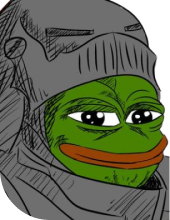
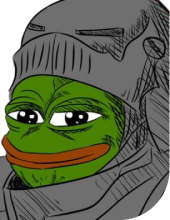
modified

diff --git a/assets/css/style.css b/assets/css/style.css
@@ -28743,34 +28743,6 @@ CSS table of content
     margin-top: 60px;
   }
 }
-.quick-start-title {
-  background: rgba(255, 255, 255, 0.08);
-  border-radius: 20px;
-  display: flex;
-  align-items: flex-start;
-  justify-content: flex-start;
-  padding: 20px;
-  margin-bottom: 21px;
-}
-.quick-start-title span {
-  margin-right: 27px;
-}
-.quick-start-title h6 {
-  margin-bottom: 0px;
-  font-size: 20px;
-  line-height: 150%;
-  color: #FFFFFF;
-  margin-top: 5px;
-}
-
-.quick-start-steps {
-  margin-bottom: 42px;
-}
-.quick-start-steps p {
-  max-width: 367px;
-  margin: auto;
-}
-
 .community-powered-card {
   background: #C8F169;
   border-radius: 50px;
@@ -28786,7 +28758,7 @@ CSS table of content
 }
 .community-powered-card .pepe2 {
   position: absolute;
-  left: 0px;
+  right: 0px;
   bottom: 0px;
   z-index: 0;
 }
@@ -28850,6 +28822,34 @@ CSS table of content
     padding: 60px 20px;
   }
 }
+.quick-start-title {
+  background: rgba(255, 255, 255, 0.08);
+  border-radius: 20px;
+  display: flex;
+  align-items: flex-start;
+  justify-content: flex-start;
+  padding: 20px;
+  margin-bottom: 21px;
+}
+.quick-start-title span {
+  margin-right: 27px;
+}
+.quick-start-title h6 {
+  margin-bottom: 0px;
+  font-size: 20px;
+  line-height: 150%;
+  color: #FFFFFF;
+  margin-top: 5px;
+}
+
+.quick-start-steps {
+  margin-bottom: 42px;
+}
+.quick-start-steps p {
+  max-width: 367px;
+  margin: auto;
+}
+
 .token-info-inner {
   position: relative;
   z-index: 2;
@@ -29057,6 +29057,47 @@ CSS table of content
 @media only screen and (max-width: 768px) {
   .roadmap-content {
     padding-top: 30px;
+  }
+}
+.our-partners-content {
+  padding-top: 50px;
+}
+.our-partners-content ul {
+  list-style: none;
+  display: flex;
+  align-items: center;
+  justify-content: center;
+  padding: 0px;
+  margin: 0px;
+  flex-wrap: wrap;
+}
+.our-partners-content ul li {
+  width: 20%;
+  display: flex;
+  align-items: center;
+  justify-content: center;
+  overflow: hidden;
+  margin-bottom: 50px;
+}
+
+@media only screen and (max-width: 1200px) {
+  .our-partners-content ul li {
+    padding: 0px 10px;
+  }
+}
+@media only screen and (max-width: 768px) {
+  .our-partners-content ul li {
+    width: 25%;
+  }
+}
+@media only screen and (max-width: 575px) {
+  .our-partners-content ul li {
+    width: 33.33%;
+  }
+}
+@media only screen and (max-width: 425px) {
+  .our-partners-content ul li {
+    width: 50%;
   }
 }
 .faq-content {

diff --git a/index.html b/index.html
@@ -385,6 +385,28 @@
     </section>
     <!-- roadmap-section End -->
 
+    <!-- our-partners-section start -->
+    <section class="our-partners-section uig-pb-115 uig-lg-pb-70 uig-md-pb-50" id="partners">
+        <div class="container">
+            <div class="section-title text-center wow fadeInUp" data-wow-duration="0.5s" data-wow-delay="0.5s">
+                <h2>Our Partners</h2>
+            </div>
+            <div class="our-partners-content wow fadeInUp" data-wow-duration="0.6s" data-wow-delay="0.6s">
+                <ul>
+                    <li><img src="./assets/images/partners/1.png" alt="partners-logo"></li>
+                    <li><img src="./assets/images/partners/2.png" alt="partners-logo"></li>
+                    <li><img src="./assets/images/partners/3.png" alt="partners-logo"></li>
+                    <li><img src="./assets/images/partners/4.png" alt="partners-logo"></li>
+                    <li><img src="./assets/images/partners/5.png" alt="partners-logo"></li>
+                    <li><img src="./assets/images/partners/6.png" alt="partners-logo"></li>
+                    <li><img src="./assets/images/partners/7.png" alt="partners-logo"></li>
+                    <li><img src="./assets/images/partners/8.png" alt="partners-logo"></li>
+                </ul>
+            </div>
+        </div>
+    </section>
+    <!-- our-partners-section End -->
+
     <!-- faq-section start -->
     <section class="faq-section uig-pb-140 uig-md-pb-100" id="faq">
         <div class="container">

diff --git a/assets/scss/sections/home/_our-partners.scss b/assets/scss/sections/home/_our-partners.scss
@@ -1,0 +1,56 @@
+.our-partners-content{
+    padding-top: 50px;
+    ul{
+        list-style: none;
+            display: flex;
+            align-items: center;
+            justify-content: center;
+            padding: 0px;
+            margin: 0px;
+            flex-wrap: wrap;
+        li{
+            width: 20%;
+            display: flex;
+            align-items: center;
+            justify-content: center;
+            overflow: hidden;
+            margin-bottom: 50px;
+        }
+    }
+}
+@media only screen and (max-width: 1200px){
+    .our-partners-content {
+        ul{
+            li{
+                padding: 0px 10px;
+            }
+        }
+    }
+}
+@media only screen and (max-width: 768px){
+    .our-partners-content {
+        ul{
+            li{
+                width: 25%;
+            }
+        }
+    }
+}
+@media only screen and (max-width: 575px){
+    .our-partners-content {
+        ul{
+            li{
+                width: 33.33%;
+            }
+        }
+    }
+}
+@media only screen and (max-width: 425px){
+    .our-partners-content {
+        ul{
+            li{
+                width: 50%;
+            }
+        }
+    }
+}

diff --git a/assets/scss/style.scss b/assets/scss/style.scss
@@ -51,10 +51,11 @@ CSS table of content
 06. home Style
 --------------------------------*/
 @import './sections/home/about';
-@import './sections/home/quick-start';
 @import './sections/home/community-powered';
+@import './sections/home/quick-start';
 @import './sections/home/token-info';
 @import './sections/home/roadmap';
+@import './sections/home/our-partners';
 @import './sections/home/faq';
 
 

diff --git a/assets/scss/sections/home/_community-powered.scss b/assets/scss/sections/home/_community-powered.scss
@@ -12,7 +12,7 @@
     }
     .pepe2{
         position: absolute;
-        left: 0px;
+        right: 0px;
         bottom: 0px;
         z-index: 0;
     }
